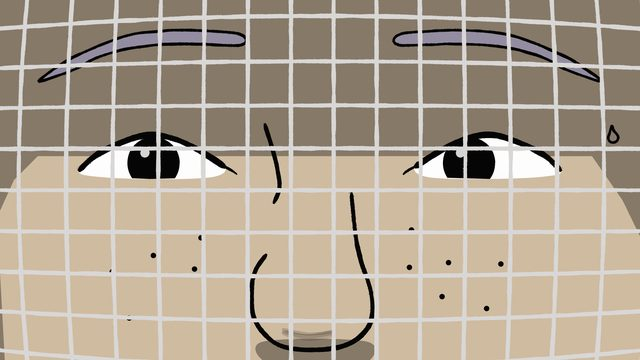
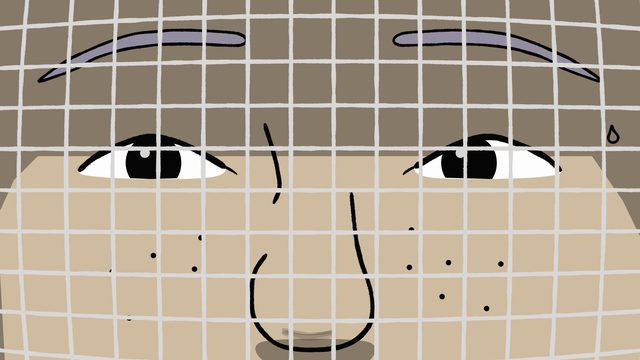
fix: 철망 장면의 키를 원본의 프레임으로, 없는 다가옴을 빼고 휩을 2프레임 단위로
리뷰에서 바꾼 결정:
- 얼굴 A의 6% 다가옴을 뺐다. 원본에 없다: 원본은 찌푸리며 기울어 내려앉았다가 들어간 그림을 거꾸로 밟아 나오고(18=12, 20=10, 22=8), 마지막 그림이 120px 왼쪽으로 튄다. 첫 판의 다가옴은 한 프레임 밀린 원본 추출본을 보고 넣은 것이었다.
- 키를 전부 원본이 그림을 바꾸는 프레임(짝수)으로 옮겼다. 원본을 ffmpeg -ss로 뽑으면 첫 프레임을 지나쳐 한 프레임씩 밀리므로 프레임 번호(select)로 다시 뽑아 쟀다.
- 휩을 1프레임 단위 여섯 장에서 2프레임 단위 석 장으로. 원본의 프레임 차이가 27·29·31·33에서만 크다.
- 얼굴 B가 눈을 가늘게 뜬 채 땀방울을 달고 들어와 눈이 커지게 했다. 첫 판은 눈꺼풀이 고정이고 땀방울이 3프레임 늦었다.

diff --git a/IBM/scenes/insert/mesh-eyes-whip.html b/IBM/scenes/insert/mesh-eyes-whip.html
@@ -7,33 +7,32 @@
 <script src="../../kit/ink.js"></script>
 <script>
 /* 마스크 철망 너머로 화면을 가득 채운 두 눈이 노려보다 눈썹을 내리고 고개를 기울이며 다가오고, 스피드라인 휩이 화면을 쓸고 지나가면 맞은편 사람의 긴장한 눈이 나온다: 눈썹이 걱정스럽게 치켜 올라가고 땀방울 하나가 길게 자라며 흘러내린다. 전달하는 생각: 대결 직전, 한쪽은 자신 있고 한쪽은 불안하다.
-   Motion notes: extreme close-up, lines 10-16 px. The mesh (#d9d7d6 lines 11 px wide, cells ~125 px, bowed like a lens) belongs to the mask, so it moves with the head: every shot is one transform (zoom, shift, tilt) applied to face and mesh together, and the skin above the visor line is darkened to #867968. Faces are drawn from the reference's shapes read off a 100 px grid; both are tables of [frame, drawing] at 24 fps held until the next key (SHOT_A, SHOT_B), nothing interpolated.
-   Face A (0-1.08 s): holds 0.375 s; scowls in two drawings (frames 9, 11: the brows turn 0.07 rad about their outer ends so the inner ends drop 30 px, the upper lids drop 33 px and cut the top off the irises); tilts the head 0.03 rad for eight frames; straightens; pushes in 6% two frames later; and is already sliding 115 px left for the last two frames before the whip takes it.
-   Whip = 6 frames on ones (0.25 s, frames 27-32): 2 frames of the leaving face shoved left and breaking into streaks tinted with its skin colours, 2 frames of streaks alone on #f0f0f0, 2 frames of the arriving face coming in from the right.
-   Face B (from 1.375 s): lands small (0.97x) and 24 px low with flat brows for three frames, rocks 0.02 rad as it comes up to size, and over the next two drawings its brows climb into a worried arch (inner ends up 110 px, outer ends 58). Then the face holds dead still and only the sweat drop moves: it appears as a hook at frame 36 and runs down on twos from a fixed tip, 26 px long at first and 160 px by the last frame. */
-const { lerp } = MG;
+   Motion notes: extreme close-up, lines 6-17 px. The mesh (#d9d7d6 lines 11 px wide, cells ~125 px, bowed like a lens) belongs to the mask, so it moves with the head: every shot is one transform (zoom, shift, tilt) applied to face and mesh together, and the skin above the visor line is darkened to #867968. Faces are drawn from the reference's shapes read off a 100 px grid; both are tables of [frame, drawing] at 24 fps held until the next key (SHOT_A, SHOT_B), nothing interpolated, and every key sits on the frame where the reference changes its drawing (all of them even frames here).
+   Face A (0-1.08 s) goes in and comes back out through the same drawings: the scowl builds over three drawings (frames 6, 8, 10: by the end the inner ends of the brows are 24 px lower and the upper lids cut the top off the irises); at 12 the head tips 0.018 rad and drops 14 px, 2% larger; at 14 it sinks another 10 px; holds 4 frames; then 18 repeats the drawing of 12, 20 that of 10, 22 that of 8. At 24 that last drawing jumps 120 px left, and holds three frames until the whip takes it.
+   Whip = three drawings on twos (0.25 s, frames 27-32): the leaving face shoved 1150 px left and breaking into streaks tinted with its skin colours; streaks alone on #f0f0f0; the arriving face 1150 px to the right of its place.
+   Face B (from 1.375 s): lands small (0.97x) and 24 px low with flat brows and its eyes narrowed to slits, a first bead of sweat already on the temple; at 36 it rocks 0.02 rad as it comes up to size and the eyes begin to open; over 38 and 40 the eyes open wide and the brows climb into a worried arch (inner ends up 110 px, outer ends 58). Then the face holds dead still and only the sweat moves: its tip stays put and the drop runs down from it on twos, 20 px long at first and 160 px by the last frame. */
 const C = IB.C, SKIN = '#cfbba0', SHADE = '#867968', MESH = '#d9d7d6', BROW_B = '#948da1';
 const WHIP = 27, B_IN = 33;   // 24 fps frames after the scene start
 const held = (keys, f) => { let v = keys[0][1]; for (const [k, d] of keys) { if (f < k) break; v = d; } return v; };
 
 /* Face A's drawings: scowl 0..1 lowers brows and lids; then the shot's zoom, shift (px) and tilt (rad, + = clockwise). */
 const A0 = { scowl: 0, zoom: 1, dx: 0, dy: 0, rot: 0 };
+const A6 = { ...A0, scowl: 0.12 }, A8 = { ...A0, scowl: 0.45 }, A10 = { ...A0, scowl: 0.8 }, A12 = { ...A0, scowl: 1, rot: 0.018, dy: 14, zoom: 1.02 };
 const SHOT_A = [
-  [0, A0],
-  [9, { ...A0, scowl: 0.5 }], [11, { ...A0, scowl: 1 }],
-  [13, { ...A0, scowl: 1, rot: 0.03, dy: 6 }],
-  [21, { ...A0, scowl: 1 }],
-  [23, { ...A0, scowl: 1, zoom: 1.06 }],
-  [25, { ...A0, scowl: 1, zoom: 1.06, dx: -115 }],
+  [0, A0], [6, A6], [8, A8], [10, A10], [12, A12],
+  [14, { ...A12, dy: 24, zoom: 1.025 }],
+  [18, A12], [20, A10], [22, A8],   // back out through the drawings it went in by
+  [24, { ...A8, dx: -120 }],
 ];
-/* Face B's drawings: worry 0..1 raises the brows into an arch; drop is the sweat drop as [length, y of its tip] or null: the tip stays where the drop formed and the bulb runs down from it. */
-const B0 = { worry: 0, zoom: 0.97, dx: 0, dy: 24, rot: 0, drop: null };
+/* Face B's drawings: lids 0..1 opens the eyes from slits; worry 0..1 raises the brows into an arch; drop is the length of the sweat drop that hangs from a fixed tip on the temple. */
+const B0 = { lids: 0.3, worry: 0, zoom: 0.97, dx: 0, dy: 24, rot: 0, drop: 20 };
+const B40 = { ...B0, lids: 1, worry: 1, zoom: 1.02, dy: 0 };
 const SHOT_B = [
   [0, B0],
-  [36, { ...B0, zoom: 1, dy: 8, rot: -0.02, worry: 0.15, drop: [26, 384] }],
-  [38, { ...B0, zoom: 1.02, dy: 0, worry: 0.65, drop: [50, 380] }],
-  [40, { ...B0, zoom: 1.02, dy: 0, worry: 1, drop: [74, 378] }],
-  ...[[42, 96], [44, 114], [46, 130], [48, 142], [50, 152], [52, 158], [54, 160]].map(([f, len]) => [f, { ...B0, zoom: 1.02, dy: 0, worry: 1, drop: [len, 378] }]),
+  [36, { ...B0, lids: 0.65, zoom: 1, dy: 8, rot: -0.02, worry: 0.15, drop: 30 }],
+  [38, { ...B40, lids: 0.9, worry: 0.65, drop: 50 }],
+  [40, { ...B40, drop: 74 }],
+  ...[[42, 96], [44, 114], [46, 130], [48, 142], [50, 152], [52, 158], [54, 160]].map(([f, drop]) => [f, { ...B40, drop }]),
 ];
 
 function mesh(ctx) {
@@ -59,7 +58,6 @@ function skin(ctx, outline) {
 function eyeball(ctx, almond, iris, r, glint, white, seed) {
   IB.ink(ctx, almond, { closed: true, fill: white, w: 0, seed, wob: 0.3 });
   ctx.save();
-  IB.ink(ctx, almond, { closed: true, w: 0, fill: 'rgba(0,0,0,0)', seed, wob: 0.3 });
   ctx.beginPath(); almond.forEach(([x, y], i) => (i ? ctx.lineTo(x, y) : ctx.moveTo(x, y))); ctx.closePath(); ctx.clip();
   return () => { IB.oval(ctx, iris[0], iris[1], r, r, { fill: C.ink, w: 0, n: 18 }); IB.oval(ctx, glint[0], glint[1], r * 0.18, r * 0.18, { fill: '#d5d5d5', w: 0, n: 8 }); ctx.restore(); };
 }
@@ -84,7 +82,7 @@ function faceA(ctx, p) {
     IB.ink(ctx, m(lidTop), { w: 17, seed: 12 + side, wob: 0.5 });
     IB.ink(ctx, m([[640, 440], [690, 470], [702, 482]]), { w: 6, seed: 14 + side });                 // the lash that runs on past the inner corner
     // brow: thin and high at the temple, thick and low over the nose; the scowl turns it about its outer end
-    const a = k * 0.07 * sx, c = Math.cos(a), sn = Math.sin(a), turn = (pts) => pts.map(([x, y]) => { const X = 2 * (side ? CX : 0) + (side ? -x : x), dx = X - (side ? 2 * CX - 220 : 220), dy = y - 195; return [X - dx + dx * c - dy * sn, y - dy + dx * sn + dy * c]; });
+    const a = k * 0.05 * sx, c = Math.cos(a), sn = Math.sin(a), turn = (pts) => pts.map(([x, y]) => { const X = 2 * (side ? CX : 0) + (side ? -x : x), dx = X - (side ? 2 * CX - 220 : 220), dy = y - 195; return [X - dx + dx * c - dy * sn, y - dy + dx * sn + dy * c]; });
     IB.ink(ctx, turn([[220, 190], [300, 176], [385, 168], [470, 172], [557, 188], [640, 228], [698, 270], [718, 296], [708, 312], [686, 310], [634, 286], [560, 250], [480, 222], [400, 208], [320, 202], [227, 203]]), { closed: true, fill: C.ink, w: 3, seed: 20 + side });
   }
   // nose: one open stroke, graphite at the nostril line, and the hard shadow it throws below
@@ -98,9 +96,9 @@ function faceB(ctx, p) {
   skin(ctx, [[130, VISOR], [1760, VISOR], [1850, 600], [1918, 740], [1904, 1200], [40, 1200], [10, 650], [60, 540]]);
   for (const side of [0, 1]) {
     const m = side ? M : (q) => q;
-    const lidTop = [[250, 514], [300, 468], [380, 428], [460, 407], [540, 422], [620, 462], [682, 503]];
+    const shut = (1 - p.lids) * 62, lidTop = [[250, 514], [300, 468 + shut * 0.55], [380, 428 + shut * 0.9], [460, 407 + shut], [540, 422 + shut * 0.9], [620, 462 + shut * 0.55], [682, 503]];
     const iris = side ? [1398, 490] : [470, 490];
-    eyeball(ctx, m(lidTop.concat([[640, 532], [460, 537], [300, 530]])), iris, 77, [iris[0] - 25, iris[1] - 30], C.paper, 30 + side)();
+    eyeball(ctx, m(lidTop.concat([[640, 532], [460, 537], [300, 530]])), iris, 82, [iris[0] - 25, iris[1] - 30], C.paper, 30 + side)();
     IB.ink(ctx, m(lidTop), { w: 16, seed: 32 + side, wob: 0.5 });
     IB.ink(ctx, m([[640, 478], [700, 512], [716, 524]]), { w: 6, seed: 34 + side });
     // brow: pale, outlined, blunt over the nose and tapering to the temple; worry lifts the inner end 110 px and the outer end 58
@@ -114,7 +112,7 @@ function faceB(ctx, p) {
   IB.ink(ctx, [[1052, 576], [1062, 680], [1078, 770], [1112, 880], [1104, 968], [1040, 1024], [921, 1040], [826, 1018], [768, 950], [758, 872], [770, 806], [803, 758]], { w: 12, seed: 51 });
   smudge(ctx, [[850, 990], [925, 1004], [1000, 994]], 55);
   if (p.drop) {   // a sweat drop on the temple: a point at the top, a bulb at the bottom
-    const [len, y] = p.drop, x = 1822, r = Math.min(29, len * 0.3), by = y + len - r;
+    const len = p.drop, y = 380, x = 1822, r = Math.min(29, len * 0.3), by = y + len - r;
     IB.ink(ctx, [[x - 4, y], [x - r * 0.75, by - r * 0.7], [x - r, by], [x - r * 0.7, by + r * 0.72], [x, by + r], [x + r * 0.7, by + r * 0.72], [x + r, by], [x + r * 0.7, by - r * 0.7], [x + 2, y + len * 0.3]], { closed: true, fill: SHADE, w: 7, seed: 60 });
     if (len > 60) IB.ink(ctx, [[x - r * 0.45, by - r * 0.1], [x - r * 0.3, by + r * 0.4]], { w: 4, color: C.paper, seed: 61, grain: 0 });
   }
@@ -136,20 +134,20 @@ MG.scene({
     };
     if (f < WHIP) return shot('A', held(SHOT_A, f));
     if (f >= B_IN) return shot('B', held(SHOT_B, f));
-    // the whip itself: leaving shot shoved left, streaks alone, arriving shot from the right
-    const k = f - WHIP;
-    if (k < 2 || k >= 4) {
-      const leaving = k < 2, off = leaving ? [-1150, -1500][k] : [1500, 1150][k - 4];
-      shot(leaving ? 'A' : 'B', leaving ? held(SHOT_A, WHIP - 1) : held(SHOT_B, B_IN), off);
+    // the whip itself, three drawings on twos: the leaving shot shoved left, streaks alone, the arriving shot still to the right of its place
+    const k = Math.floor((f - WHIP) / 2), drawn = WHIP + k * 2;
+    if (k !== 1) {
+      const leaving = k === 0;
+      shot(leaving ? 'A' : 'B', leaving ? held(SHOT_A, WHIP - 1) : held(SHOT_B, B_IN), leaving ? -1150 : 1150);
       // the face breaks up: bars of bare stage eat into it from the open side
-      const r = MG.rng(700 + f);
+      const r = MG.rng(700 + drawn);
       ctx.fillStyle = C.bg;
       for (let i = 0; i < 46; i++) { const y = r() * 1080, h = 6 + r() * 30, w = 500 + r() * 1100; ctx.fillRect(leaving ? 1920 - w - 260 * r() : 0, y, w + 400, h); }
       ctx.fillRect(leaving ? 1000 : 0, 0, 920, 1080);
       for (let i = 0; i < 30; i++) { const y = r() * 1080, h = 5 + r() * 26, w = 200 + r() * 700; ctx.fillStyle = r() < 0.5 ? SKIN : SHADE; ctx.globalAlpha = 0.85; ctx.fillRect(leaving ? 1000 - w * 0.4 : 920 - w * 0.6, y, w, h); }
       ctx.globalAlpha = 1;
     }
-    IB.whip(ctx, f, { seed: 4, tint: k < 2 || k >= 4 ? [SKIN] : [] });
+    IB.whip(ctx, drawn, { seed: 4, tint: k !== 1 ? [SKIN] : [] });
   },
 });
 </script>

diff --git a/IBM/README.md b/IBM/README.md
@@ -38,4 +38,4 @@ desk.js  앉은 포즈(IB.sit), 사무실 의자·책상·정면 모니터(IB.ch
 
 - **출처:** 원본은 IBM의 광고 스팟이다. 영상 파일과 거기서 뽑은 프레임은 저장소에 넣지 않았다(`.gitignore`). 모든 그림은 코드로 그린 것이다.
 - **바꾼 것:** 문구는 전부 뺐다. 광고 카피, 태그라인, 로고, 화면 속 간판과 포스터 글자를 그리지 않는다. 카피가 왼쪽을 차지하던 스팟 장면은 그림이 있는 영역만 16:9로 잘라 화면에 채웠다(영역은 각 장면의 `CROP`, 좌표는 원본 기준 그대로). 그래서 `tools/capture.py --compare`는 이 세 장면에서 `--ref-crop`에 장면의 `CROP`(x,y,w,h)을 주어야 크기와 위치가 맞는다: 주지 않으면 잘리지 않은 원본 프레임이 잘린 렌더 위에 놓인다. 엔드카드에 내려앉는 벌은 줄무늬 없는 날벌레로, 헬리콥터 옆면의 브랜드 표식은 빈 면으로 바꿨다. 카피의 글꼴 수치는 kit의 `IB.TYPE`에 남아 있고, 글꼴은 원본의 IBM Plex Sans 대신 공용 Pretendard 300을 쓰게 되어 있다.
-- **충실도:** 구도, 크기, 컷과 비트의 시각, 카피와 카메라의 움직임은 원본 프레임에서 잰 값이다. 그림은 다르다: 원본은 프레임마다 손으로 그린 셀 애니메이션이고, 여기서는 원본 확대 크롭에서 읽은 형태를 닫힌 도형과 관절 몇 개짜리 리그로 옮겼다. 장면별로 보면 `endcard/flyby-dot-settle`은 확대해도 원본과 가깝다. `spot/folder-meets-document`는 원본을 프레임 단위로 뽑아 그림 수(배우마다 약 50장)와 그림의 종류(폴더의 뒤돌기와 벌어짐, 종이의 휨과 메모지, 굽는 다리, 손가락 있는 손)를 맞췄지만 원본의 그림을 한 장씩 옮긴 것은 아니다. 폴더가 뒤도는 순간의 공중 그림 한 장과 미러볼의 회전은 원본에 없는 것을 같은 문법으로 넣었고, 폴더의 스텝 그루브, 서류의 빠른 회전, 서류가 폴더를 지켜보다 런지에 몸을 젖히는 대목은 원본에도 있는 연기를 다른 그림으로 다시 그렸다(원본의 서류는 이때 좌우가 뒤집힌 그림으로 돌아서지만 여기서는 4분의 3쯤만 몸을 튼다). `spot/tandem-riders-join`의 인물은 원본에서 읽은 관절 위치에 옷과 옆얼굴을 입힌 리그다. 다섯 사람의 차림과 머리 모양, 그림마다의 자세(기울기, 안장에서 뜨는 높이, 팔, 고개, 눈과 입, 머리카락의 솟음)는 원본의 합류와 피날레를 따라 넣었지만 옷 주름과 손가락, 원본의 그림 한 장 한 장의 선은 없다. 합류할 때 새 사람이 원본에서는 앞사람 뒤에서 갈라져 나오듯 나타나는데 여기서는 위에서 떨어져 앉고, 모자를 잃은 사람이 마지막에 남들처럼 팔을 드는 것은 원본에 없다. `spot/dark-eyes-reveal`은 관찰자와 고양이의 그림을 원본의 4배 확대 격자에서 옮겼고, 둘의 연기(렌즈 속 눈의 움직임과 고개 돌리기, 쌍안경을 내리는 넉 장, 고양이가 창턱 아래로 사라졌다 자기 쌍안경을 들고 올라오는 개그)를 원본의 프레임에 맞춰 넣었다. 고양이의 귀 까딱임과 꼬리 흔들기는 원본이 2프레임마다 조금씩 다시 그리는 것을 몇 장으로 줄였고(창턱을 떠나는 그림도 원본 다섯 장을 넉 장으로), 화분의 잎은 시드로 뿌린 것이라 원본의 배치와 다르며 흔들림도 세 장을 돌리는 것이다. 고개를 돌릴 때 원본은 머리와 쌍안경을 돌려 그린 새 그림이고 여기서는 옮기고 오른쪽 경통의 옆면을 덧그린 것이다. 끝에 날아드는 벌은 줄무늬 없는 날벌레다. `insert/mesh-eyes-whip`의 두 얼굴은 원본의 눈·눈썹·코·주근깨의 형태를 100px 격자에서 읽어 옮겼고, 찌푸림과 고개 기울임, 다가옴, 걱정스럽게 올라가는 눈썹, 자라며 흐르는 땀방울을 원본이 그림을 바꾸는 프레임에 맞췄다. 원본은 정지 구간에서도 2프레임마다 선을 조금씩 다시 그리지만 여기서는 같은 그림을 붙잡는다. `establish/city-stadium-flyin`은 경기장, 전경 건물, 나무 줄, 헬리콥터가 원본의 배치와 형태를 따르지만 뒤쪽 고층 건물은 시드로 생성한 것이라 원본과 다르고, 헬리콥터 옆면의 브랜드 표식과 글자는 뺐다. 인물의 전신 연기 샷(카탈로그의 `act`)과 카피 카드(`copy`)는 장면으로 두지 않았다.
+- **충실도:** 구도, 크기, 컷과 비트의 시각, 카피와 카메라의 움직임은 원본 프레임에서 잰 값이다. 그림은 다르다: 원본은 프레임마다 손으로 그린 셀 애니메이션이고, 여기서는 원본 확대 크롭에서 읽은 형태를 닫힌 도형과 관절 몇 개짜리 리그로 옮겼다. 장면별로 보면 `endcard/flyby-dot-settle`은 확대해도 원본과 가깝다. `spot/folder-meets-document`는 원본을 프레임 단위로 뽑아 그림 수(배우마다 약 50장)와 그림의 종류(폴더의 뒤돌기와 벌어짐, 종이의 휨과 메모지, 굽는 다리, 손가락 있는 손)를 맞췄지만 원본의 그림을 한 장씩 옮긴 것은 아니다. 폴더가 뒤도는 순간의 공중 그림 한 장과 미러볼의 회전은 원본에 없는 것을 같은 문법으로 넣었고, 폴더의 스텝 그루브, 서류의 빠른 회전, 서류가 폴더를 지켜보다 런지에 몸을 젖히는 대목은 원본에도 있는 연기를 다른 그림으로 다시 그렸다(원본의 서류는 이때 좌우가 뒤집힌 그림으로 돌아서지만 여기서는 4분의 3쯤만 몸을 튼다). `spot/tandem-riders-join`의 인물은 원본에서 읽은 관절 위치에 옷과 옆얼굴을 입힌 리그다. 다섯 사람의 차림과 머리 모양, 그림마다의 자세(기울기, 안장에서 뜨는 높이, 팔, 고개, 눈과 입, 머리카락의 솟음)는 원본의 합류와 피날레를 따라 넣었지만 옷 주름과 손가락, 원본의 그림 한 장 한 장의 선은 없다. 합류할 때 새 사람이 원본에서는 앞사람 뒤에서 갈라져 나오듯 나타나는데 여기서는 위에서 떨어져 앉고, 모자를 잃은 사람이 마지막에 남들처럼 팔을 드는 것은 원본에 없다. `spot/dark-eyes-reveal`은 관찰자와 고양이의 그림을 원본의 4배 확대 격자에서 옮겼고, 둘의 연기(렌즈 속 눈의 움직임과 고개 돌리기, 쌍안경을 내리는 넉 장, 고양이가 창턱 아래로 사라졌다 자기 쌍안경을 들고 올라오는 개그)를 원본의 프레임에 맞춰 넣었다. 고양이의 귀 까딱임과 꼬리 흔들기는 원본이 2프레임마다 조금씩 다시 그리는 것을 몇 장으로 줄였고(창턱을 떠나는 그림도 원본 다섯 장을 넉 장으로), 화분의 잎은 시드로 뿌린 것이라 원본의 배치와 다르며 흔들림도 세 장을 돌리는 것이다. 고개를 돌릴 때 원본은 머리와 쌍안경을 돌려 그린 새 그림이고 여기서는 옮기고 오른쪽 경통의 옆면을 덧그린 것이다. 끝에 날아드는 벌은 줄무늬 없는 날벌레다. `insert/mesh-eyes-whip`의 두 얼굴은 원본의 눈·눈썹·코·주근깨의 형태를 100px 격자에서 읽어 옮겼고, 찌푸렸다 돌아 나오는 고개, 가늘게 떴다 커지는 눈, 걱정스럽게 올라가는 눈썹, 자라는 땀방울을 원본이 그림을 바꾸는 프레임에 맞췄다. 표정의 중간 그림은 원본처럼 새로 그린 것이 아니라 눈썹과 눈꺼풀을 옮긴 것이다. `establish/city-stadium-flyin`은 경기장, 전경 건물, 나무 줄, 헬리콥터가 원본의 배치와 형태를 따르지만 뒤쪽 고층 건물은 시드로 생성한 것이라 원본과 다르고, 헬리콥터 옆면의 브랜드 표식과 글자는 뺐다. 인물의 전신 연기 샷(카탈로그의 `act`)과 카피 카드(`copy`)는 장면으로 두지 않았다.

diff --git a/IBM/STYLE.md b/IBM/STYLE.md
@@ -74,7 +74,7 @@
 연기 샷 사이에 0.3~2.8초씩 들어가는 클로즈업(눈, 손, 칼끝, 케틀벨).
 
 - **룩:** 대상이 화면을 가득 채우고 선은 6~8px 이상으로 굵다. 철망 너머의 눈은 피부색 `#cfbba0` 위에 격자 `#d9d7d6`(선 11px, 칸 약 125px, 렌즈처럼 바깥으로 휨)를 얹고, 눈선 위쪽은 `#867968`로 어둡게 깔았다.
-- **모션:** 얼굴 안에서는 눈썹과 눈꺼풀만 2프레임 단위로 움직이고, 철망은 마스크에 붙은 것이라 머리와 함께 움직인다(화면 전체가 한 덩어리로 기울고 다가온다). 자신 있는 쪽은 두 장에 찌푸리고(눈썹 안쪽 끝 30px, 윗눈꺼풀 33px 아래로), 고개를 0.03rad 기울였다 세우고, 6% 다가온 뒤 휩 직전 두 프레임에 이미 115px 밀려 나간다. 불안한 쪽은 조금 작고 낮게 들어와 석 장에 걸쳐 눈썹이 걱정스러운 아치로 올라가고(안쪽 끝 110px), 그 뒤로는 완전히 멈춘 얼굴 위에서 땀방울만 2프레임마다 길어지며 흘러내린다(26px에서 160px). 휩 전환은 나가는 화면이 왼쪽으로 2프레임 밀리며 가로 줄무늬로 흩어지고, 줄무늬만 있는 프레임이 2~4장, 들어오는 화면이 오른쪽에서 2~3프레임에 자리 잡는다. 줄무늬는 가는 검은 선(3~6px), 로열블루 선, 폭 14~24px의 옅은 분필 띠 세 종류이고, 양 끝 프레임에는 나가고 들어오는 화면의 색이 섞인다. 매 프레임 완전히 다른 배치다.
+- **모션:** 얼굴 안에서는 눈썹과 눈꺼풀만 2프레임 단위로 움직이고, 철망은 마스크에 붙은 것이라 머리와 함께 움직인다(화면 전체가 한 덩어리로 기울고 내려앉는다). 자신 있는 쪽은 석 장에 걸쳐 찌푸리고(눈썹 안쪽 끝 24px 아래로, 윗눈꺼풀이 눈동자 위를 자른다), 고개를 0.018rad 기울이며 14px, 다시 10px 내려앉아 4프레임 붙잡았다가, 들어간 그림을 거꾸로 밟아 석 장에 돌아 나온다(같은 그림을 다시 쓴다). 그 마지막 그림이 통째로 120px 왼쪽으로 튀고 3프레임 뒤 휩이 온다. 불안한 쪽은 조금 작고 낮게, 눈을 가늘게 뜬 채 이미 땀 한 방울을 달고 들어와 석 장에 걸쳐 눈이 커지고 눈썹이 걱정스러운 아치로 올라가며(안쪽 끝 110px), 그 뒤로는 완전히 멈춘 얼굴 위에서 땀방울만 2프레임마다 길어진다(20px에서 160px). 1편의 이 휩(0.25초)은 2프레임씩 석 장이다: 나가는 얼굴이 흩어지는 그림, 줄무늬만 있는 그림, 들어오는 얼굴. 다른 휩 전환은 나가는 화면이 왼쪽으로 2프레임 밀리며 가로 줄무늬로 흩어지고, 줄무늬만 있는 프레임이 2~4장, 들어오는 화면이 오른쪽에서 2~3프레임에 자리 잡는다. 줄무늬는 가는 검은 선(3~6px), 로열블루 선, 폭 14~24px의 옅은 분필 띠 세 종류이고, 양 끝 프레임에는 나가고 들어오는 화면의 색이 섞인다. 매 프레임 완전히 다른 배치다.
 - **키트:** `kit/ink.js` (`IB.whip`)
 - **장면:** `scenes/insert/`
 
